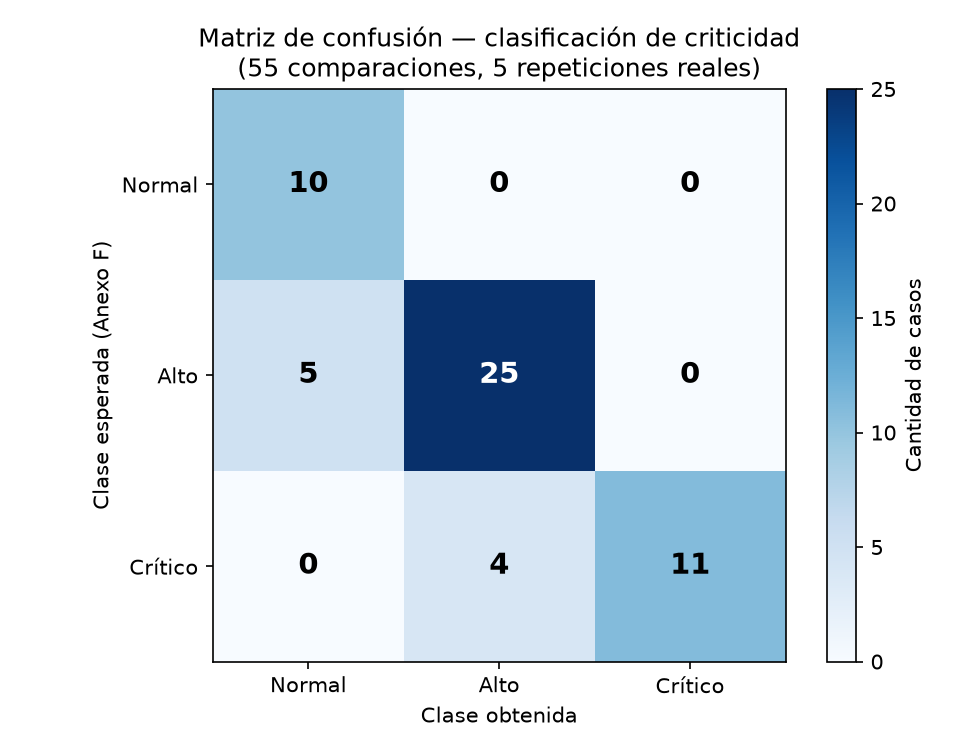
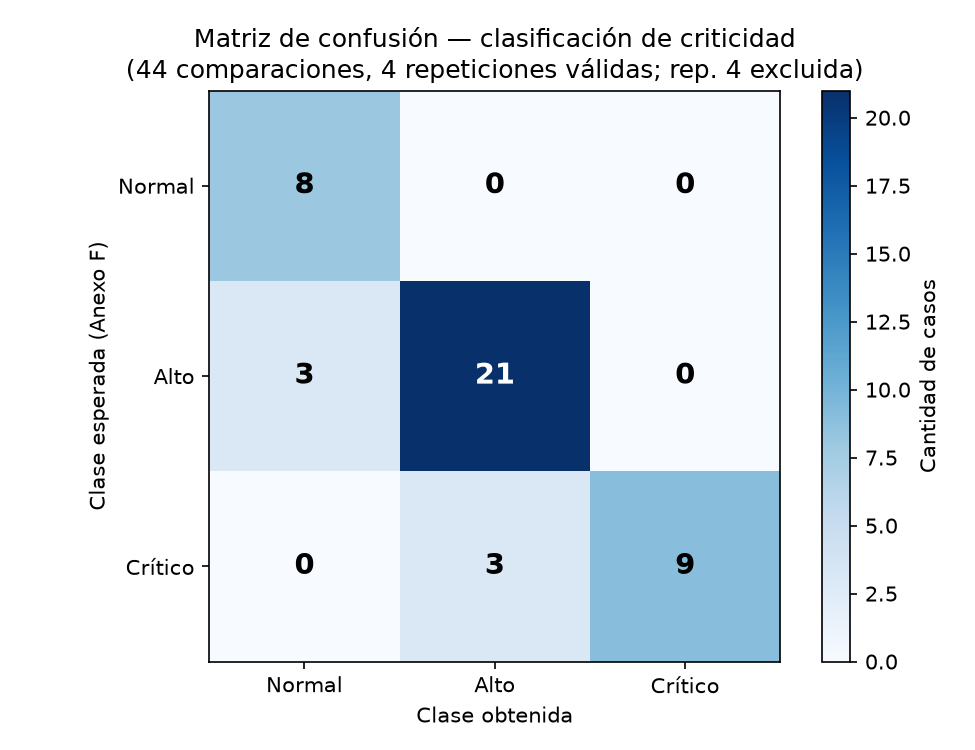
fix: corrige atribucion falsa de CVE en smb-13, excluye repeticion 4 comprometida del analisis
anexo_e_f_v2.md: smb-13 y smb-20 comparten Dockerfile (debian:11-slim, Samba
4.13 parcheada) pero se les atribuian veredictos de RCE opuestos. Se corrige
la fila de .13 para que sea consistente con .20.

gen_fig_confusion.py / fig3_matriz_confusion.png: la repeticion 4 se aplico
con el fix de infraestructura (restart: unless-stopped) a mitad de la corrida,
por lo que se excluye del analisis principal (44 comparaciones validas en vez
de 55). Matriz de confusion regenerada sin esa repeticion.

evidencia_control_hw/: se trackean los 3 archivos de mediciones manuales de
control de hardware (punto 1.1, 20/08) que sostienen los tiempos de control
citados en el cuerpo del trabajo — antes vivian fuera del repo y no habia
forma de verificarlos.

diff --git a/docs/figures/gen_fig_confusion.py b/docs/figures/gen_fig_confusion.py
@@ -1,5 +1,9 @@
 # -*- coding: utf-8 -*-
-"""Figura: heatmap de la matriz de confusion real (55 comparaciones, 5 repeticiones)."""
+"""Figura: heatmap de la matriz de confusion real (44 comparaciones, 4 repeticiones validas).
+
+La repeticion 4 se excluye del analisis principal: el fix de infraestructura
+(restart: unless-stopped) se aplico a mitad de esa repeticion, ver
+docs/anexo_e_f_v2.md, seccion "Inestabilidad de contenedores del laboratorio"."""
 import matplotlib
 matplotlib.use('Agg')
 import matplotlib.pyplot as plt
@@ -7,9 +11,9 @@ import numpy as np
 
 labels = ['Normal', 'Alto', 'Crítico']
 matrix = np.array([
-    [10, 0, 0],
-    [5, 25, 0],
-    [0, 4, 11],
+    [8, 0, 0],
+    [3, 21, 0],
+    [0, 3, 9],
 ])
 
 fig, ax = plt.subplots(figsize=(6.5, 5))
@@ -21,7 +25,7 @@ ax.set_xticklabels(labels)
 ax.set_yticklabels(labels)
 ax.set_xlabel('Clase obtenida')
 ax.set_ylabel('Clase esperada (Anexo F)')
-ax.set_title('Matriz de confusión — clasificación de criticidad\n(55 comparaciones, 5 repeticiones reales)')
+ax.set_title('Matriz de confusión — clasificación de criticidad\n(44 comparaciones, 4 repeticiones válidas; rep. 4 excluida)')
 
 for i in range(3):
     for j in range(3):

diff --git a/docs/anexo_e_f_v2.md b/docs/anexo_e_f_v2.md
@@ -101,7 +101,7 @@ para que Greenbone tenga algo real que detectar.
 | 172.20.0.10 | Web pública | 80, 443 | 5+4 | 9 | Normal | nginx actualizado, TLS autofirmado — control, sin hallazgo esperado |
 | 172.20.0.11 | Landing interna | 80 | 5 | 5 | Normal | httpd actualizado — control, sin hallazgo esperado |
 | 172.20.0.12 | Panel admin interno | 80, 22 | 5+9 | 14 | Alto | OpenSSH desactualizado (8.0) con `PasswordAuthentication` habilitado |
-| 172.20.0.13 | BD de desarrollo | 3306, 22, 445 | 10+9+8 | 27 | Crítico | MySQL 5.7 (CVE conocidas) + Samba 4.6 vulnerable a CVE-2017-7494 (SambaCry) |
+| 172.20.0.13 | BD de desarrollo | 3306, 22, 445 | 10+9+8 | 27 | Crítico | MySQL 5.7 (CVE conocidas) + Samba con *guest access* habilitado (sin RCE conocido en la versión instalada — 4.13 sobre `debian:11-slim`, parcheada contra CVE-2017-7494) |
 | 172.20.0.14 | Réplica de BD | 5432, 22 | 10+9 | 19 | Alto | PostgreSQL 9.6 desactualizado |
 | 172.20.0.15 | Directorio corporativo | 389, 80 | 7+5 | 12 | Alto | OpenLDAP con *bind* anónimo habilitado |
 | 172.20.0.16 | Servidor de correo | 25, 587, 22 | 4+4+9 | 17 | Alto | Postfix configurado como *open relay* |
